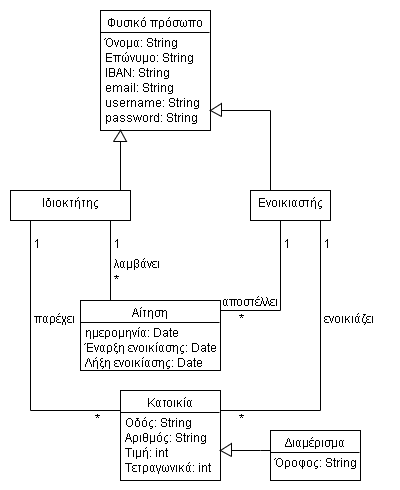
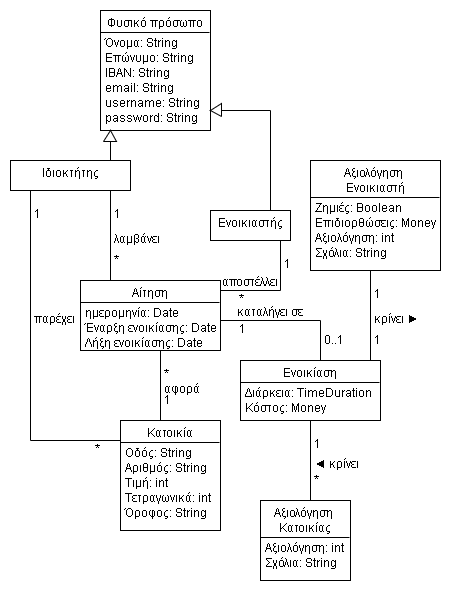
Image at Use Cases

diff --git a/Use Case Description.md b/Use Case Description.md
@@ -15,22 +15,7 @@
     της ταυτότητας του ενοικιαστή μέσω της αποστολής ενός μηνύματος σε κάποιο δηλωθέντα λογαριασμό email.
   5. Ο ενοικιαστής, συμπληρώνει εκ νέου τα επιβεβαιωτικά στοιχεία του.
   6. Το σύστημα καταχωρεί τα στοιχεία του ενοικιαστή στη βάση του, και ενημερώνει μέσω σχετικού μηνύματος τον ενοικιαστή.
- 
-#### *Εναλλακτικές ροές:*
   
-  3α. Ο ενοικιαστής παραλείπει να συμπληρώσει ορισμένα απαραίτητα πεδία. 
-  1. Το σύστημα εμφανίζει σχετικό μήνυμα και αναμένει τη συμπλήρωση των σχετικών πεδίων.
-   
-  3β. Το αναγνωριστικό όνομα χρήστη (username) είναι ήδη σε χρήση.
-  1. Το σύστημα εμφανίζει σχετικό μήνυμα και αναμένει την καταχώρηση νέου username.
-   
-  3γ. Ο καταχωρημένος κωδικός αντιβαίνει έναν ή περισσότερους κανόνες για τους κωδικούς (ελάχιστος αριθμός χαρακτήρων,
-  χρήση πεζών και κεφαλαίων κλπ).
-  1. Το σύστημα εμφανίζει σχετικό μήνυμα με τους κανόνες για τους κωδικούς και αναμένει την καταχώρηση νέου κωδικού.
-  
-  5α. Οι δύο κωδικοί διαφέρουν.
-  1. Το σύστημα εμφανίζει σχετικό μήνυμα και αναμένει την καταχώρηση του σωστού password.
-
 ## 2. **Αξιολόγηση Διαμερίσματος**
 #### Πρωτεύων Δράστης:
   Ενοικιαστής
@@ -99,6 +84,14 @@
   
   2α. Ο ενοικιαστής δεν έχει ξαναπραγματοποιήσει αναζητήσεις.   
   1. Ο ενοικιαστής πρέπει να πραγματοποιήσει μία αναζήτηση, όπως αναφέρεται στην ΠΧ Αναζήτηση Διαμερίσματος.
+
+#### *Διάγραμμα Δραστηριοτήτων:*
+
+  ![](UC_4_Activity_Diagram.png)
+
+#### *Διάγραμμα Ακολουθίας:*
+
+  ![](UC_4_Sequence_Diagram.png)
   
 ## 5. __Αξιολόγηση Ενοικιαστή__
 #### Πρωτεύων Δράστης:
@@ -127,6 +120,14 @@
 3α)Εντοπίζεται ζημιά στο ακίνητο ή πιθανή απώλεια (ή καταστροφή) κάποιου αντικειμένου η οποία επιβάλει επιπλέον κόστος και ο ιδιοκτήτης καλείται να συμβουλευθεί έναν προσχεδιασμένο πίνακα και να κοστολογήσει την περίπτωση αυτή.
 
 1)Αποστέλλεται το επιπλέον κόστος στον ενοικιαστή. 
+
+#### *Διάγραμμα Δραστηριοτήτων:*
+
+  ![](UC_5_Activity_Diagram.png)
+
+#### *Διάγραμμα Ακολουθίας:*
+
+  ![](UC_5_Sequence_Diagram.png)
 
 ## 6. __Διαχείριση αιτημάτων ενοικίασης__
 #### Πρωτεύων Δράστης:
@@ -216,6 +217,13 @@
 4α. Ο ιδιοκτήτης έχει συμπληρώσει λάθος κάποια πεδία.
 1. Ο ιδιοκτήτης επιστρέφει στο βήμα 2 της βασικής ροής.
 
+#### *Διάγραμμα Δραστηριοτήτων:*
+
+  ![](UC_8_Activity_Diagram.png)
+
+#### *Διάγραμμα Ακολουθίας:*
+
+  ![](UC_8_Sequence_Diagram.png)
 
 **9. Παραγωγή Στατιστικών Στοιχείων**
 --
